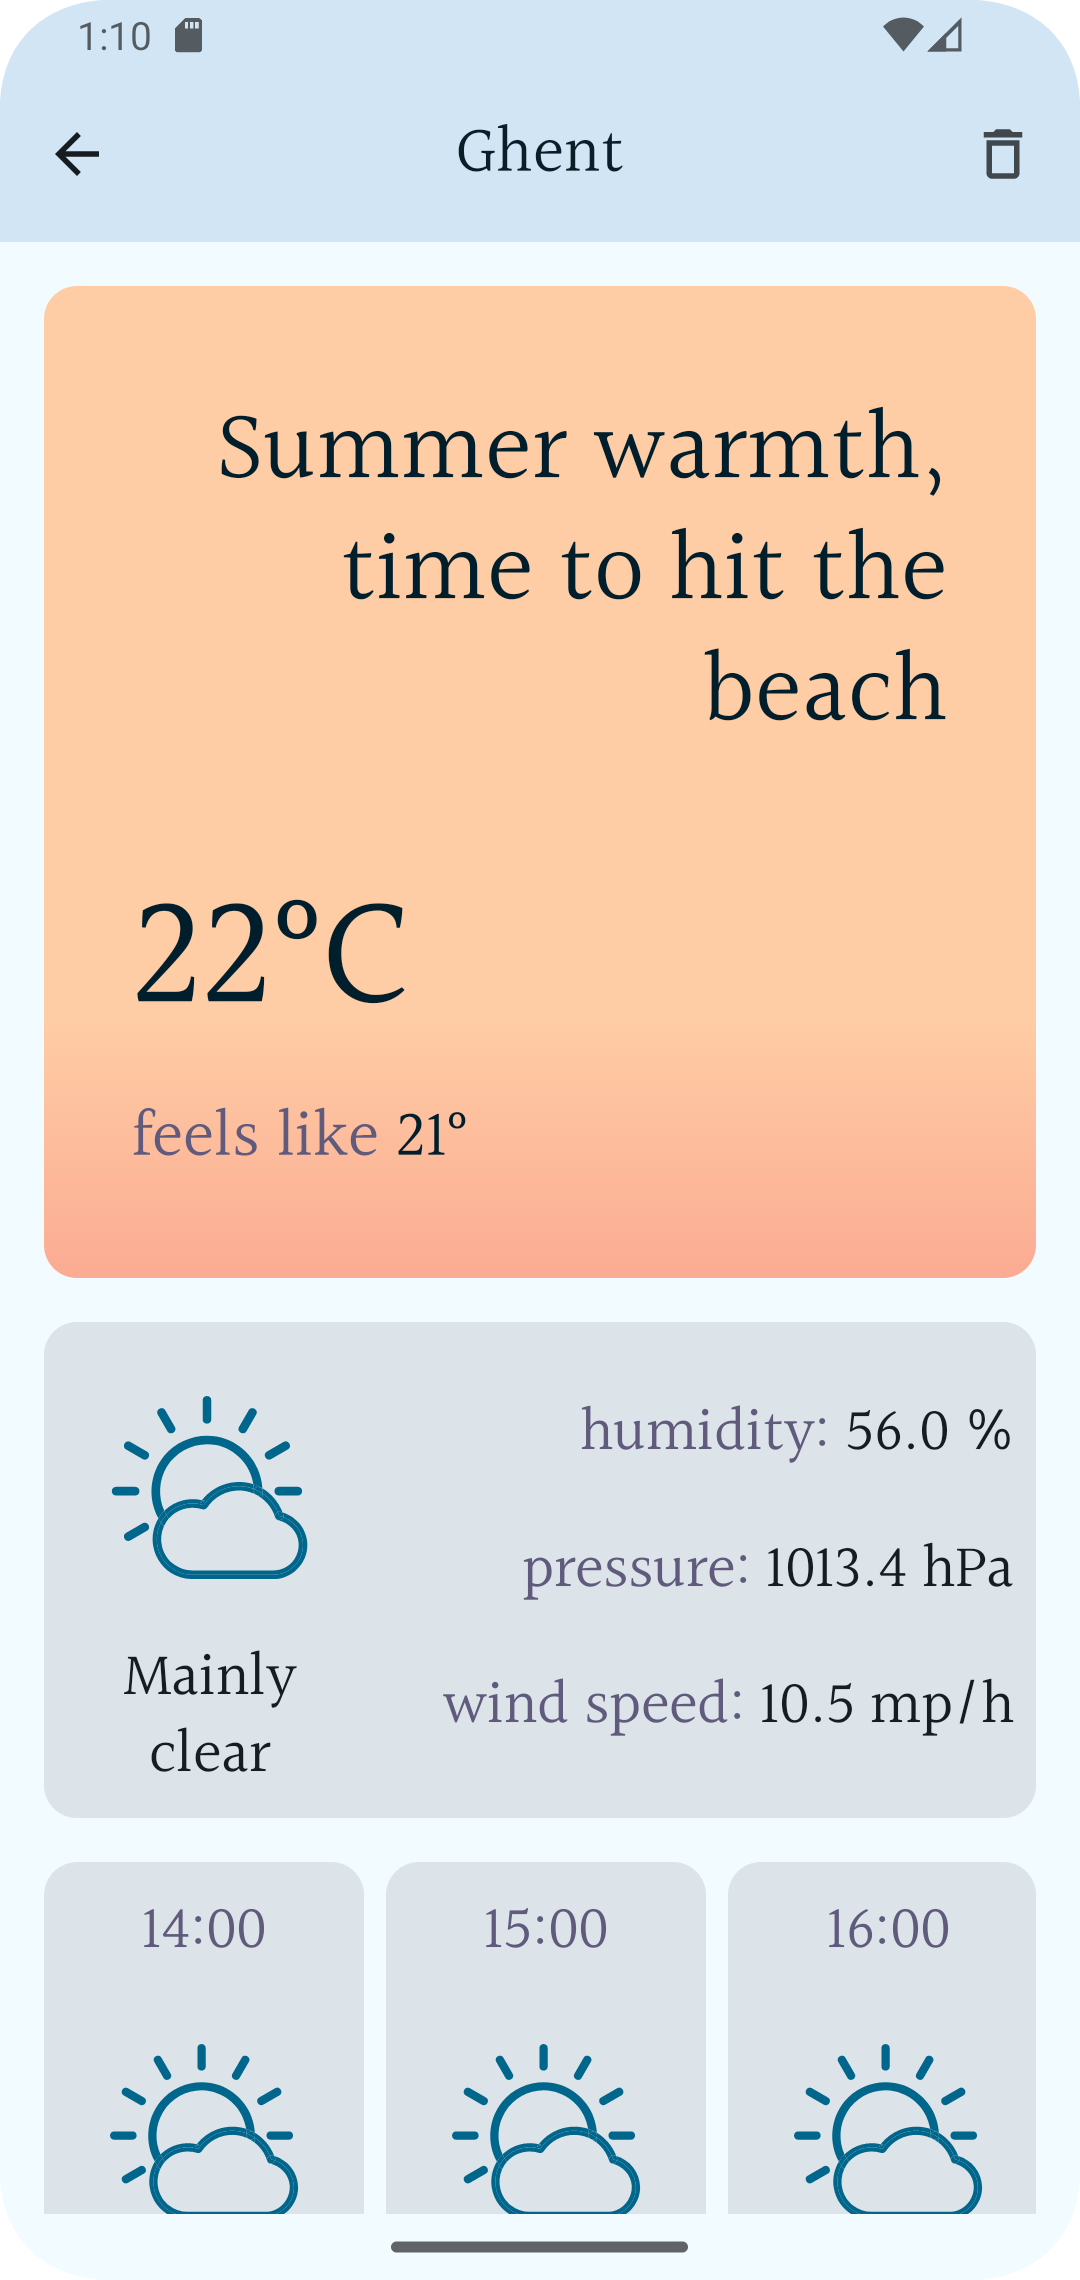
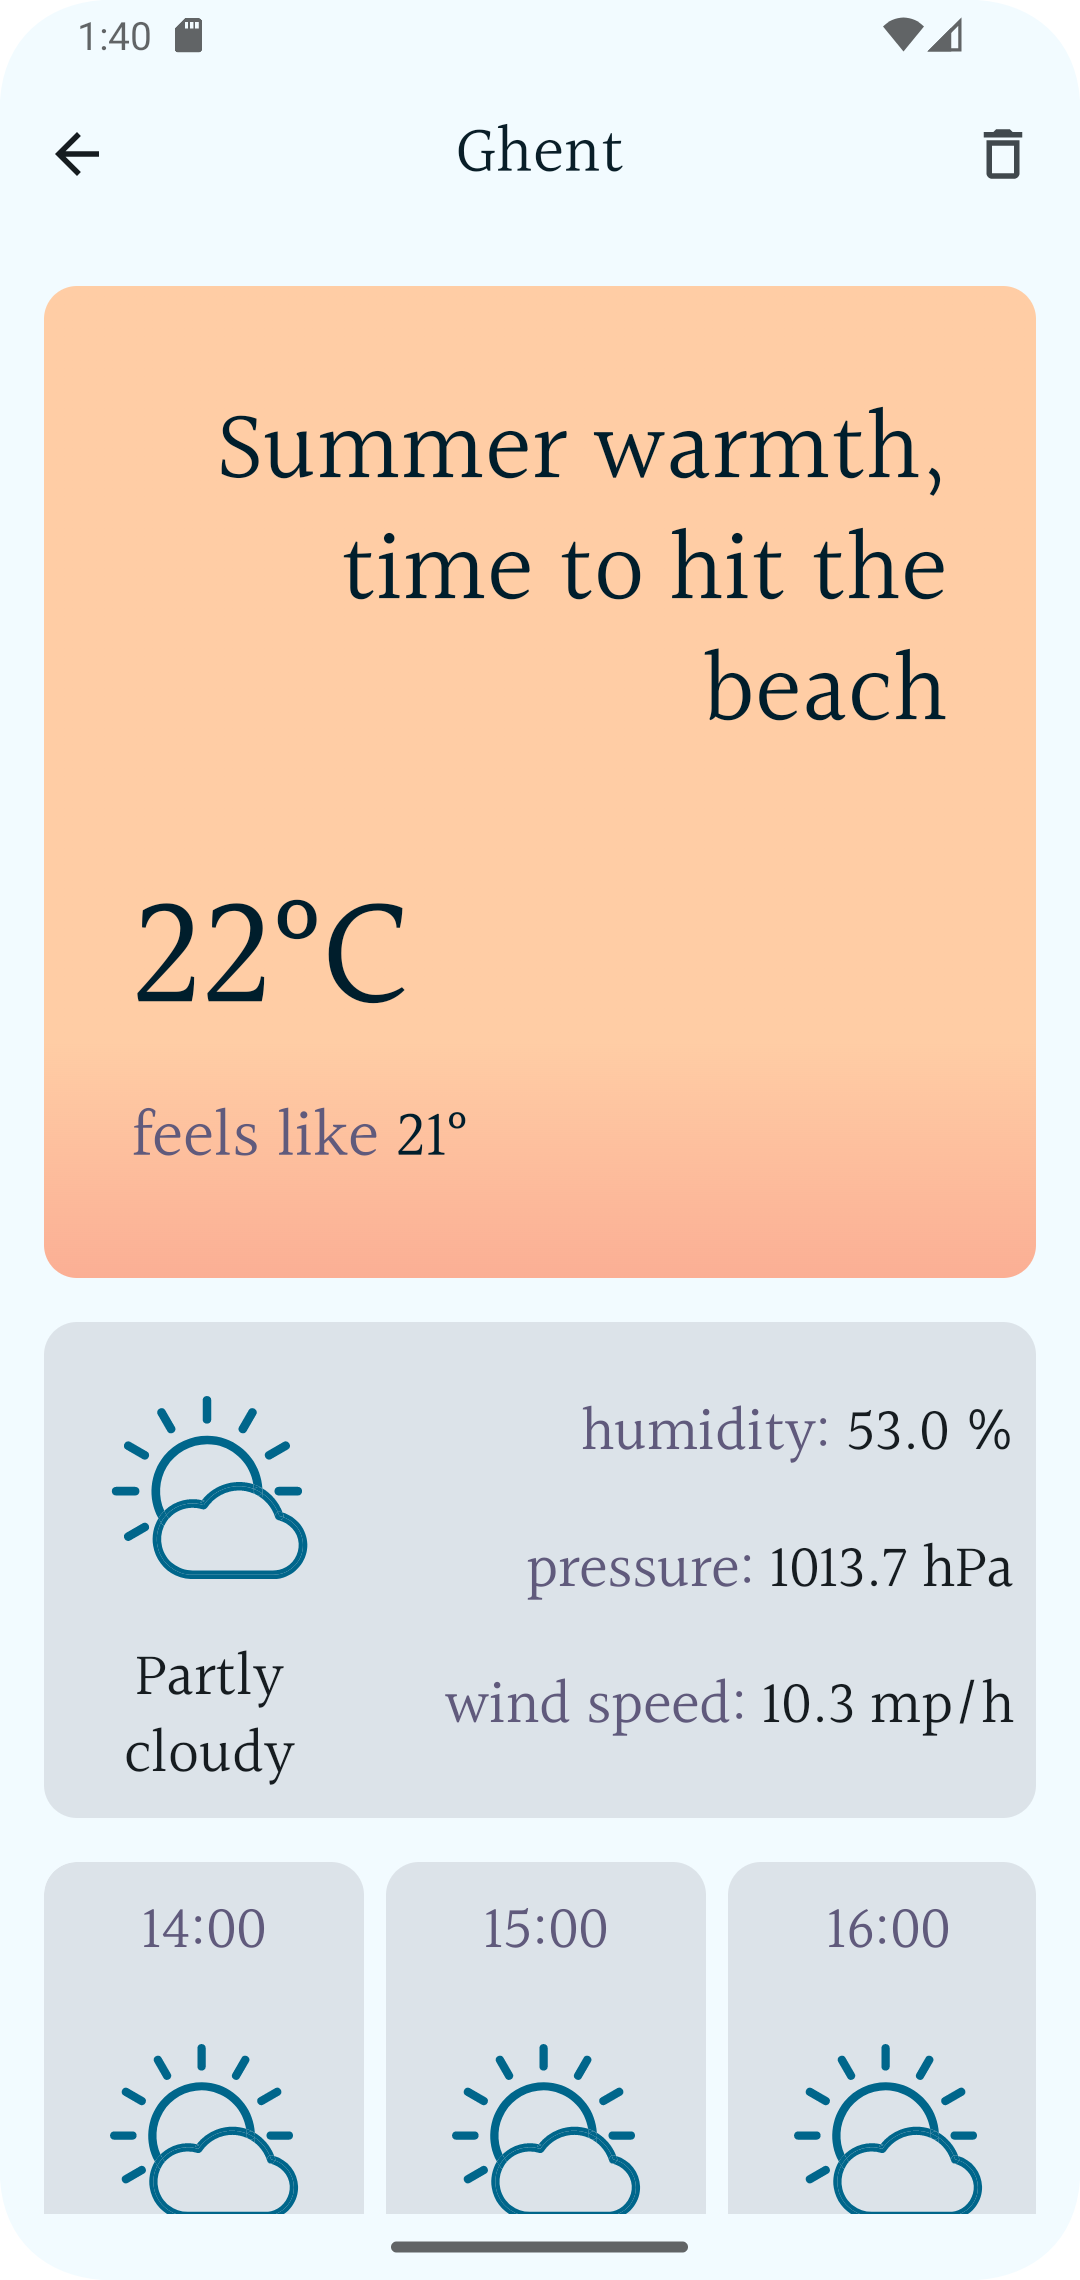
change top bar color

diff --git a/app/src/main/java/com/example/theweatherapp/ui/components/top_bars/TopNavBar.kt b/app/src/main/java/com/example/theweatherapp/ui/components/top_bars/TopNavBar.kt
@@ -50,7 +50,7 @@ fun SharedTransitionScope.TopNavBar(
         scrollBehavior = TopAppBarDefaults.enterAlwaysScrollBehavior(),
         colors =
             TopAppBarDefaults.centerAlignedTopAppBarColors(
-                containerColor = MaterialTheme.colorScheme.secondaryContainer,
+                containerColor = MaterialTheme.colorScheme.surface,
                 scrolledContainerColor = Color.Transparent,
             ),
         title = {
